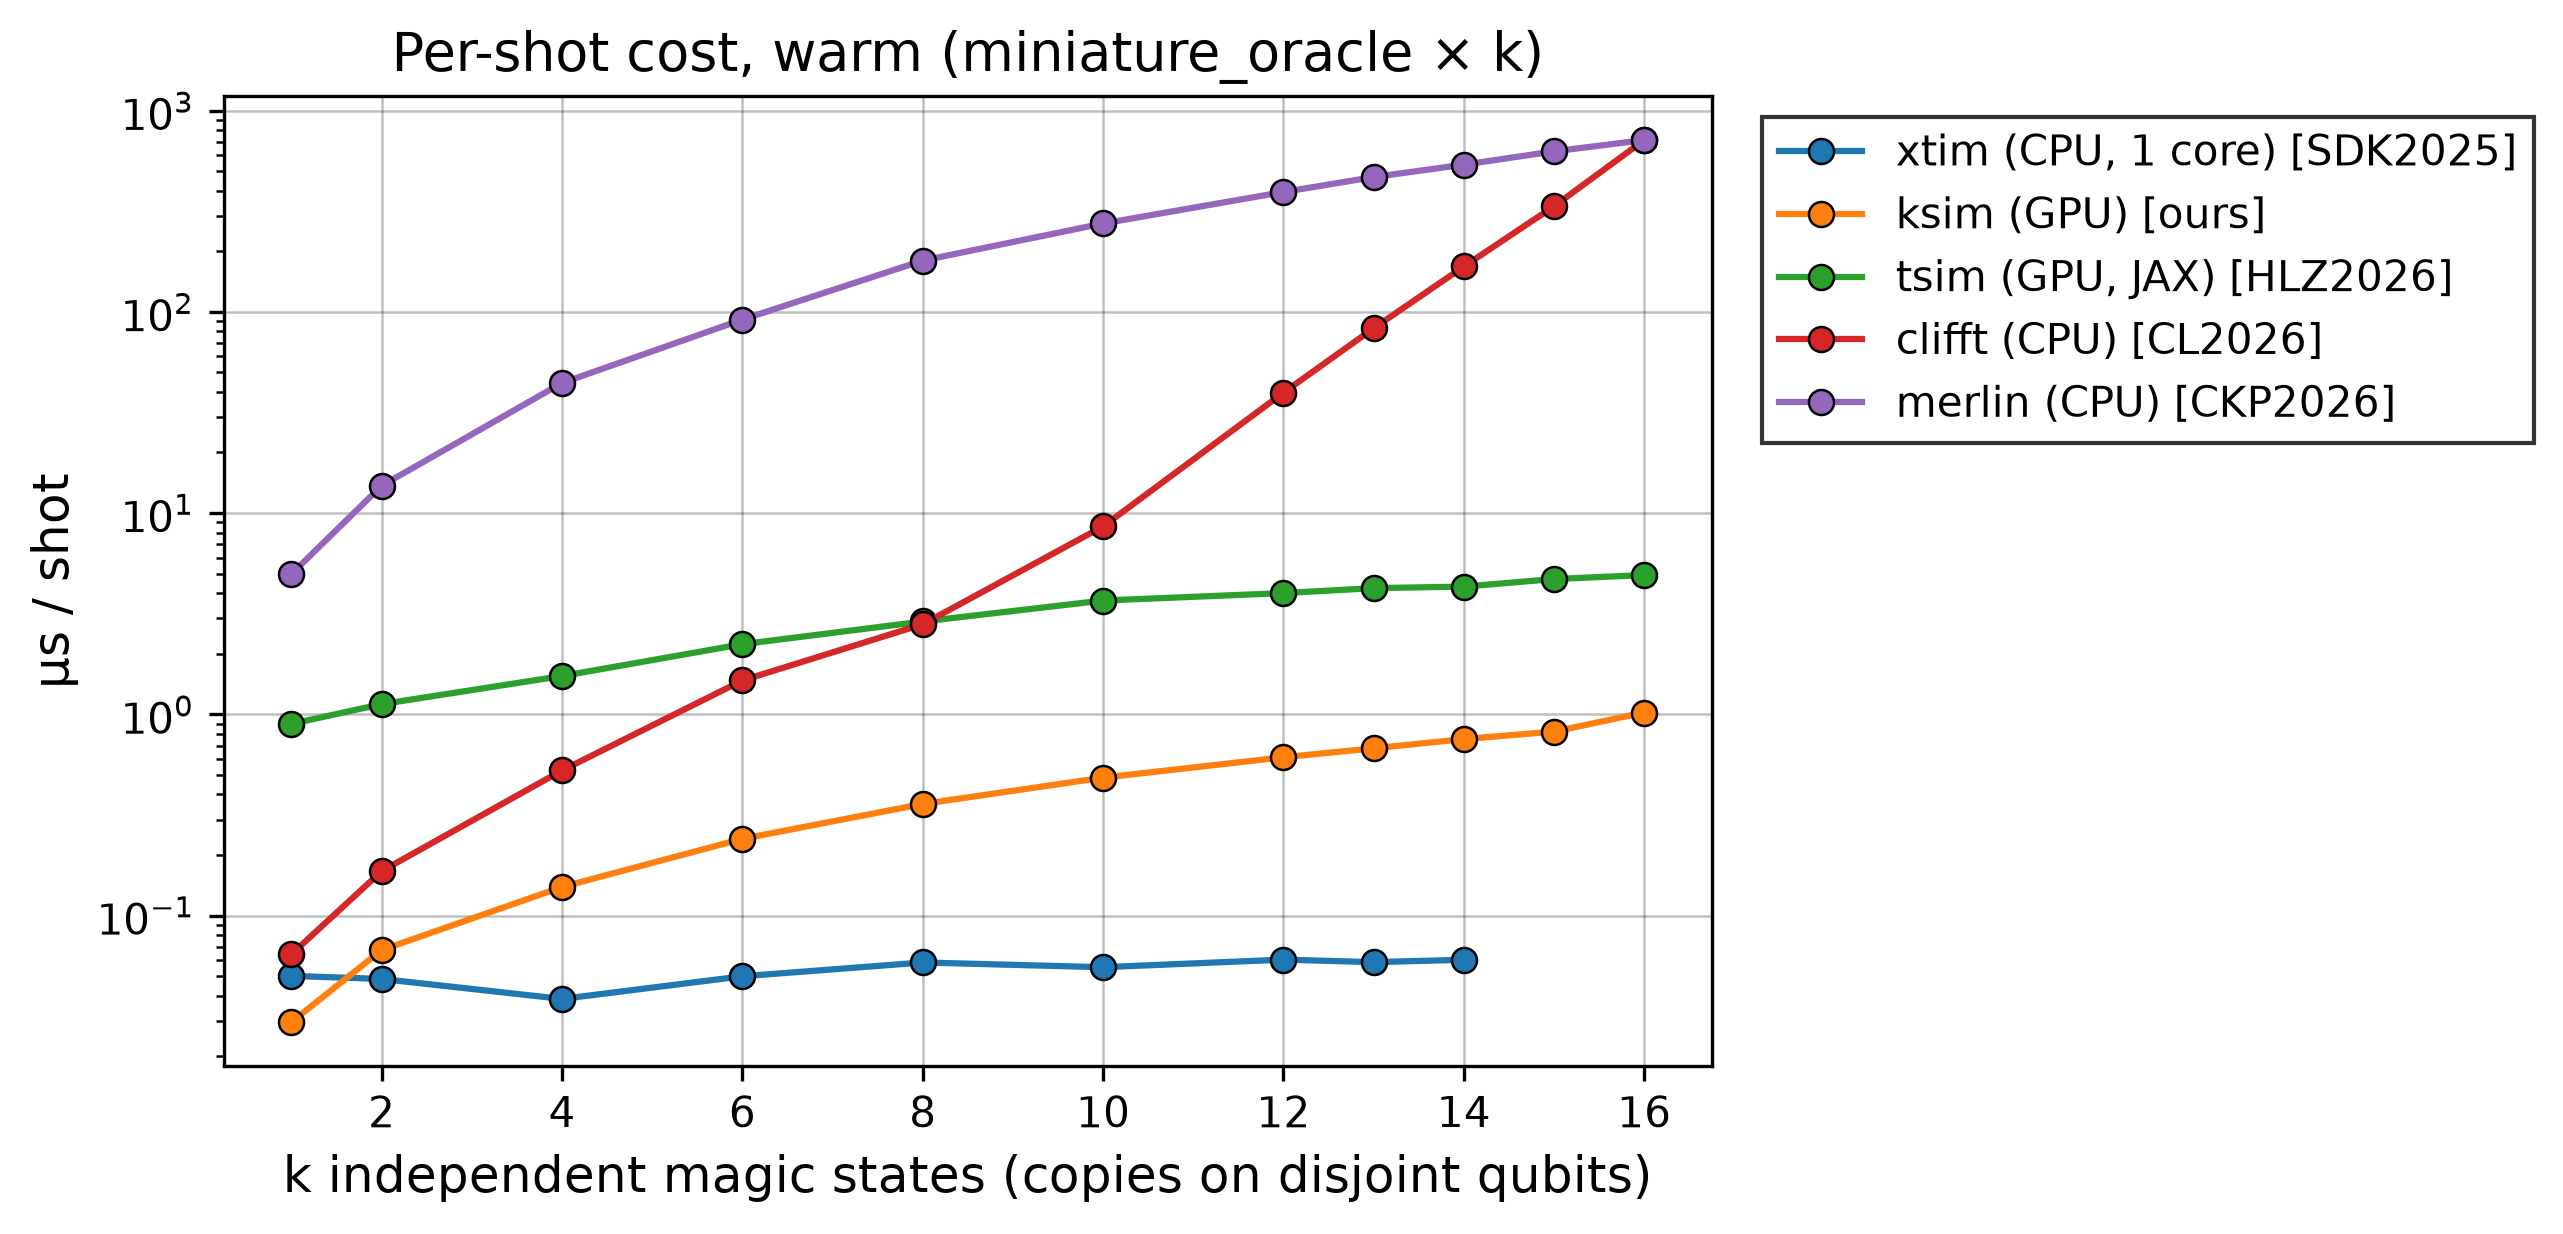
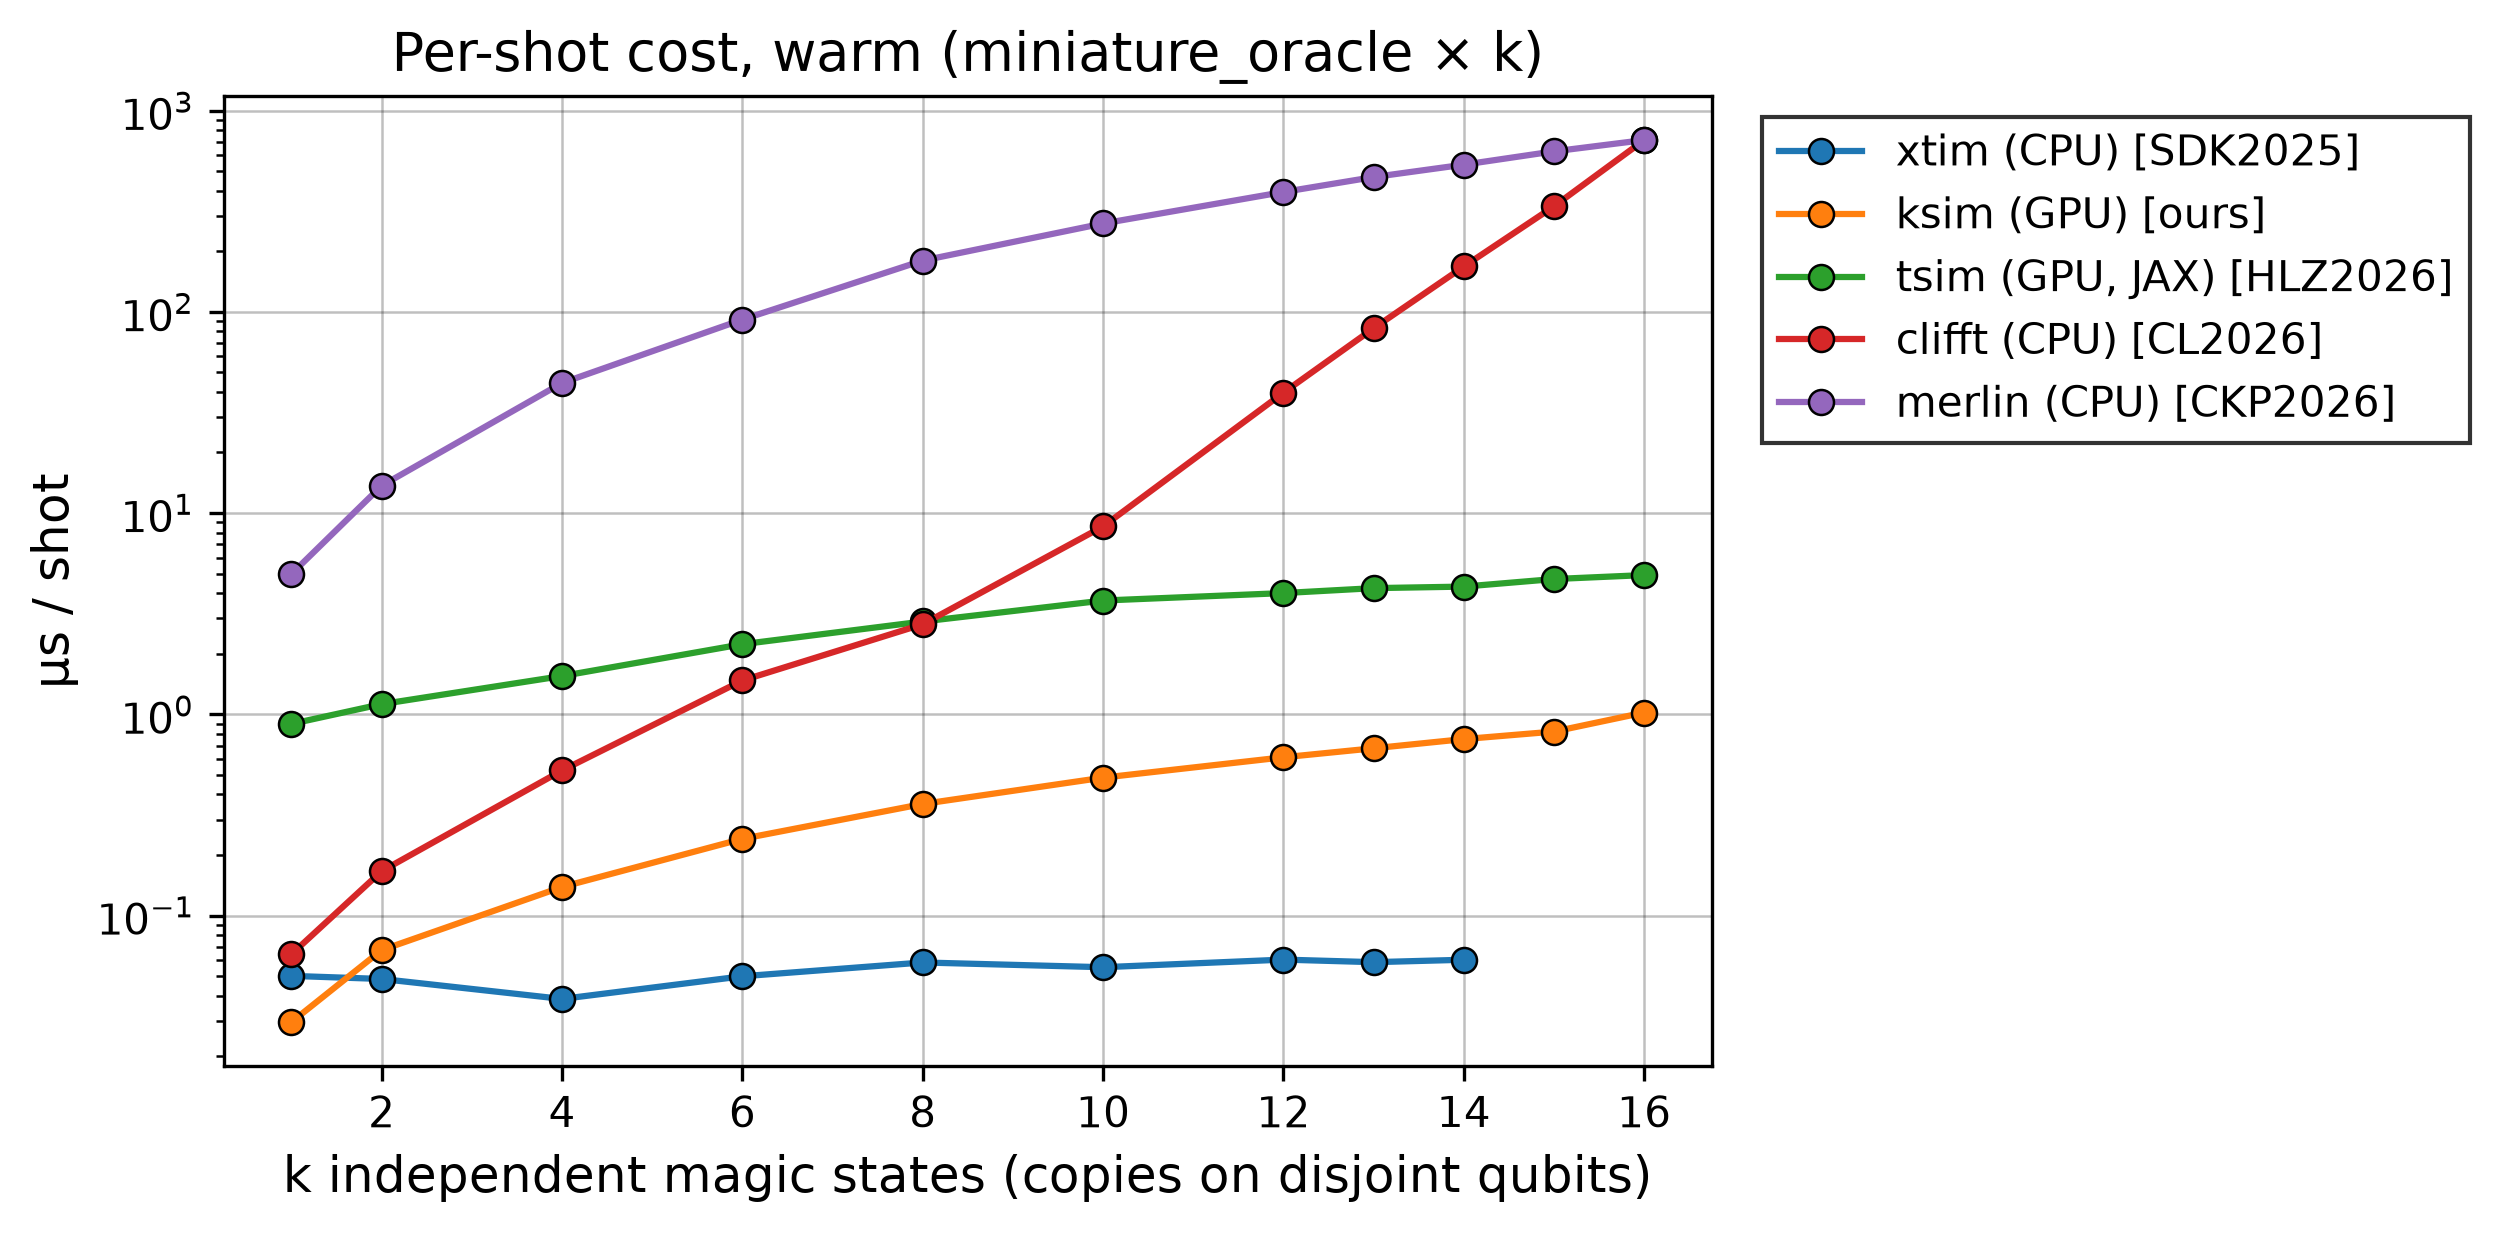
plot_scaling: drop '1 core' from the xtim legend label

diff --git a/benchmarks/plot_scaling.py b/benchmarks/plot_scaling.py
@@ -44,7 +44,7 @@ import matplotlib.pyplot as plt
 
 COLOURS = {"xtim": "#1f77b4", "ksim": "#ff7f0e", "tsim": "#2ca02c",
            "clifft": "#d62728", "merlin": "#9467bd"}
-LABELS = {"xtim": "xtim (CPU, 1 core) [SDK2025]",
+LABELS = {"xtim": "xtim (CPU) [SDK2025]",
           "ksim": "ksim (GPU) [ours]",
           "tsim": "tsim (GPU, JAX) [HLZ2026]",
           "clifft": "clifft (CPU) [CL2026]",
